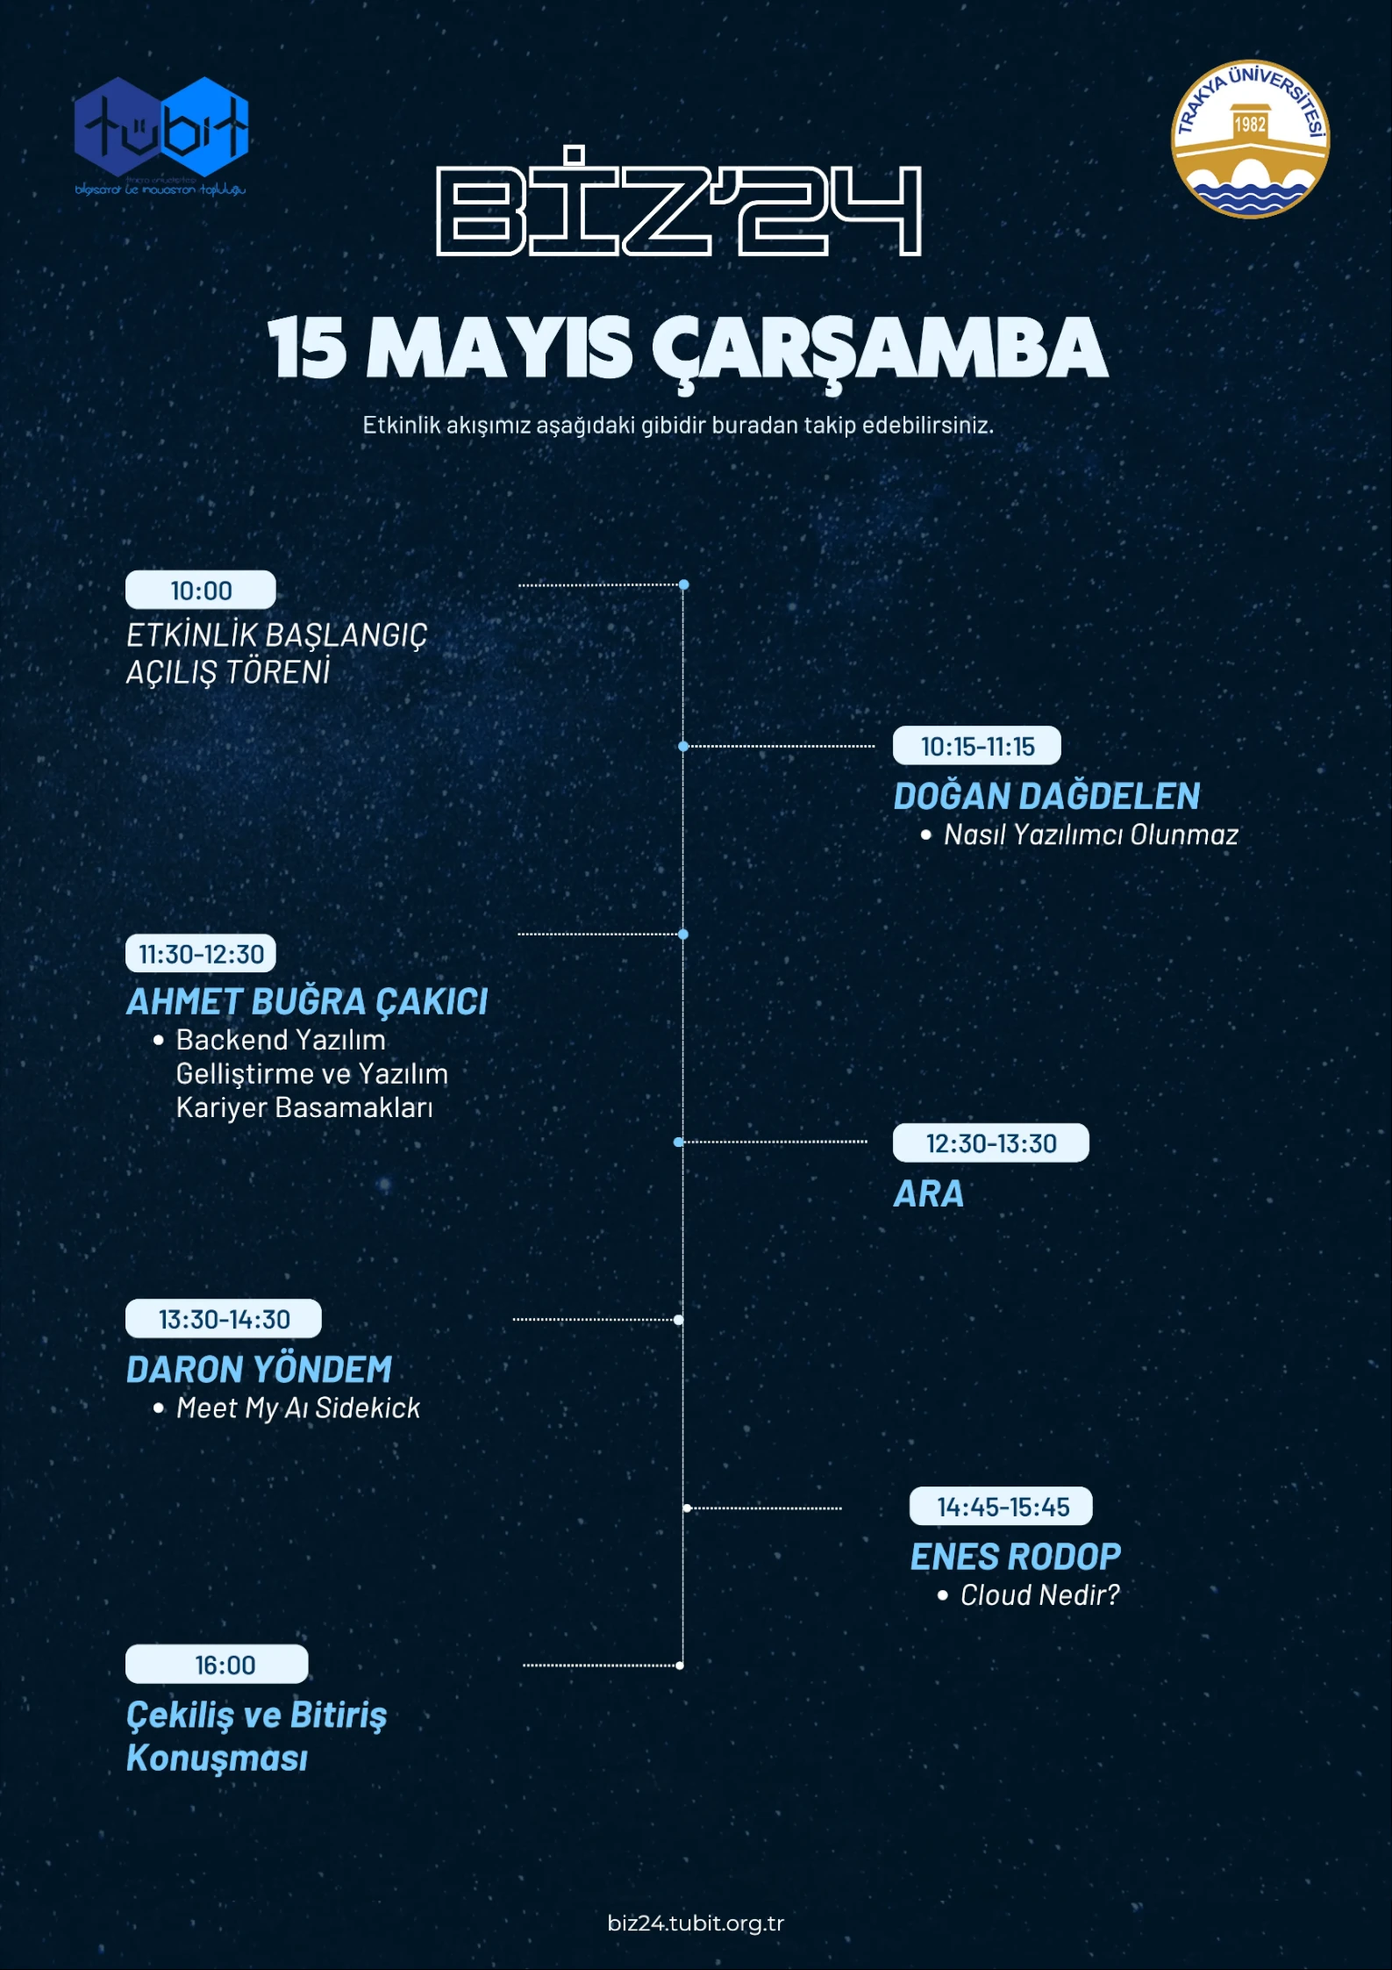
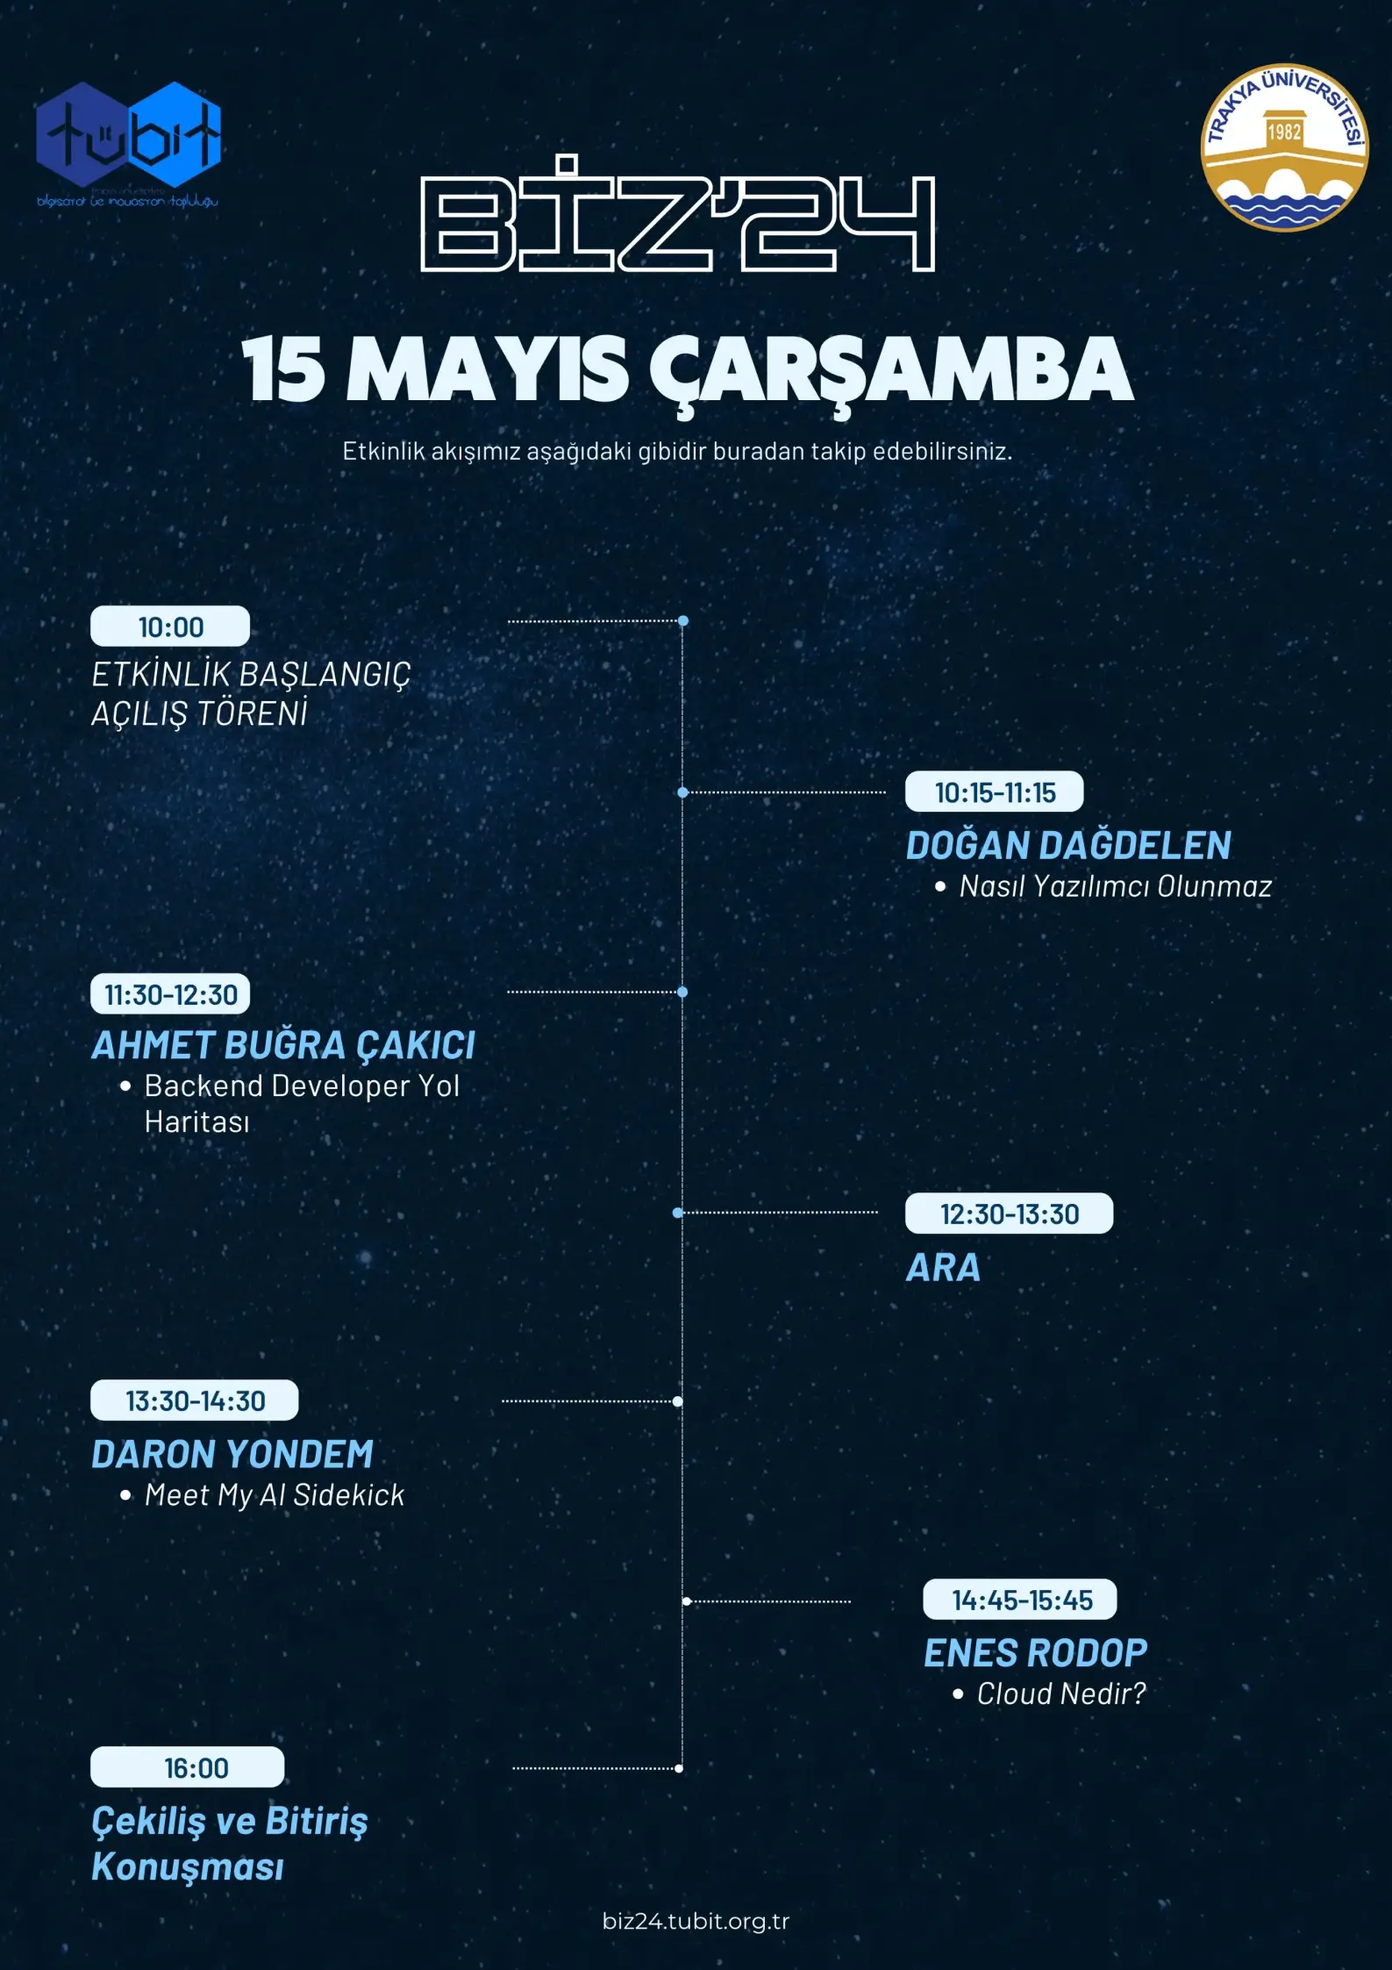
Update dynamic event status and the timelines

diff --git a/src/js/countdown.js b/src/js/countdown.js
@@ -1,7 +1,7 @@
 // events first day
 let countdownTime = new Date("2024-05-14T10:00:00").getTime();
 let currentTime = new Date().getTime();
-// let currentTime = new Date("2024-05-14T11:59:55").getTime();
+// let currentTime = new Date("2024-05-15T14:44:55").getTime();
 let timeRemaining = countdownTime - currentTime;
 // let currenTimeCounter = setInterval(() => {
 //     currentTime += 1000;
@@ -10,11 +10,12 @@ let timeRemaining = countdownTime - currentTime;
 if (timeRemaining > 0) {
     countdownTimer(countdownTime, "14.05.2024", "10.00", "Etkinliğe Kalan", false);
 } else {
+    showEventStatusContainer();
     updateEventStatus();
 }
 
 function countdownTimer(countdownTime, date, time, title, hideDay) {
-    document.getElementById("eventStatus").classList.add("hidden");
+    hideEventStatusContainer();
     let eventCountdownDate = document.getElementById("eventCountdownDate");
     let eventCountdownTitle = document.getElementById("eventCountdownTitle");
     let eventCountdownTimer = document.getElementById("eventCountdownTimer");
@@ -35,7 +36,6 @@ function countdownTimer(countdownTime, date, time, title, hideDay) {
     eventCountdownTitle.classList.remove("hidden");
     eventCountdownTimer.classList.remove("hidden");
     eventCountdownTimer.classList.add("flex");
-
     let x = setInterval(() => {
         let currentTime = new Date().getTime();
         let timeRemaining = countdownTime - currentTime;
@@ -45,6 +45,7 @@ function countdownTimer(countdownTime, date, time, title, hideDay) {
             document.getElementById("eventCountdownTitle").classList.add("hidden");
             document.getElementById("eventCountdownTimer").classList.add("hidden");
 
+            showEventStatusContainer();
             updateEventStatus();
         } else {
             let days = Math.floor(timeRemaining / (1000 * 60 * 60 * 24));
@@ -52,23 +53,21 @@ function countdownTimer(countdownTime, date, time, title, hideDay) {
             let minutes = Math.floor((timeRemaining % (1000 * 60 * 60)) / (1000 * 60));
             let seconds = Math.floor((timeRemaining % (1000 * 60)) / 1000);
 
-            document.getElementById("eventCountdownDay").innerHTML = days.toString().padStart(2,0);
-            document.getElementById("eventCountdownHour").innerHTML = hours.toString().padStart(2,0);
-            document.getElementById("eventCountdownMinute").innerHTML = minutes.toString().padStart(2,0);
-            document.getElementById("eventCountdownSecond").innerHTML = seconds.toString().padStart(2,0);
+            document.getElementById("eventCountdownDay").innerHTML = days.toString().padStart(2, 0);
+            document.getElementById("eventCountdownHour").innerHTML = hours.toString().padStart(2, 0);
+            document.getElementById("eventCountdownMinute").innerHTML = minutes.toString().padStart(2, 0);
+            document.getElementById("eventCountdownSecond").innerHTML = seconds.toString().padStart(2, 0);
         }
     }, 1000);
 }
 
 function updateEventStatus() {
-    document.getElementById("eventStatus").classList.remove("hidden");
     let dayOne = new Date("2024-05-14T10:00:00").getTime();
     let dayOneEnd = new Date("2024-05-14T16:40:00").getTime();
     let dayTwo = new Date("2024-05-15T10:00:00").getTime();
     let dayTwoEnd = new Date("2024-05-15T16:40:00").getTime();
     let dayThree = new Date("2024-05-16T10:00:00").getTime();
     let dayThreeEnd = new Date("2024-05-16T16:40:00").getTime();
-
     if (dayOne - currentTime < 0 && dayOneEnd - currentTime > 0) {
         // first day
         // console.log("day one");
@@ -78,8 +77,9 @@ function updateEventStatus() {
         let nextEventDate = document.getElementById("nextEventDate");
         let nextEventSpeaker = document.getElementById("nextEventSpeaker");
         let nextEvent = document.getElementById("nextEvent");
-
+        let nextEventContainer = document.getElementById("nextEventContainer");
         currentEventDay.innerText = "14.05.2024 - 1. Gün";
+
         // first event is the day start
         let eventOne = dayOne; // 10.00
         let eventOneEnd = eventOne + 3600000; // + 1 hour (3600000ms, 1h) 11.00
@@ -106,12 +106,12 @@ function updateEventStatus() {
 
         // using a truth table to prevent unnecessary updates
         let truthArray = [false, false, false, false, false, false, false, false];
-
         let eventUpdate = setInterval(() => {
             if (eventOne - currentTime < 0 && eventOneEnd - currentTime > 0 && !truthArray[0]) {
                 truthArray[0] = true;
                 currentEventSpeaker.innerText = "";
                 currentEvent.innerText = "BİZ2024 Açılış Töreni";
+                nextEventContainer.classList.remove("hidden");
                 nextEvent.innerText = "Girişimcilik ve Marka Yaratma";
                 nextEventSpeaker.innerText = "Orkun Kayra AKYÜZ";
                 nextEventDate.innerText = "11:00-12:00";
@@ -120,6 +120,7 @@ function updateEventStatus() {
                 truthArray[1] = true;
                 currentEventSpeaker.innerText = "Orkun Kayra AKYÜZ";
                 currentEvent.innerText = "Girişimcilik ve Marka Yaratma";
+                nextEventContainer.classList.remove("hidden");
                 nextEvent.innerText = "1 Saat 15 Dakika Ara";
                 nextEventSpeaker.innerText = "";
                 nextEventDate.innerText = "12:00-13:15";
@@ -128,6 +129,7 @@ function updateEventStatus() {
                 truthArray[2] = true;
                 currentEventSpeaker.innerText = "";
                 currentEvent.innerText = "1 Saat 15 Dakika Ara";
+                nextEventContainer.classList.remove("hidden");
                 nextEvent.innerText = "Gearing Up for a Career as a Student";
                 nextEventSpeaker.innerText = "Murat Mirgün ERCAN";
                 nextEventDate.innerText = "13:15-14:15";
@@ -136,6 +138,7 @@ function updateEventStatus() {
                 truthArray[3] = true;
                 currentEventSpeaker.innerText = "Murat Mirgün ERCAN";
                 currentEvent.innerText = "Gearing Up for a Career as a Student";
+                nextEventContainer.classList.remove("hidden");
                 nextEvent.innerText = "Kahoot Yarışması";
                 nextEventSpeaker.innerText = "";
                 nextEventDate.innerText = "14:30-15:00";
@@ -144,6 +147,7 @@ function updateEventStatus() {
                 truthArray[4] = true;
                 currentEventSpeaker.innerText = "";
                 currentEvent.innerText = "15 Dakika Ara";
+                nextEventContainer.classList.remove("hidden");
                 nextEvent.innerText = "Kahoot Yarışması";
                 nextEventSpeaker.innerText = "";
                 nextEventDate.innerText = "14:30-15:00";
@@ -152,6 +156,7 @@ function updateEventStatus() {
                 truthArray[5] = true;
                 currentEventSpeaker.innerText = "";
                 currentEvent.innerText = "Kahoot Yarışması";
+                nextEventContainer.classList.remove("hidden");
                 nextEvent.innerText = "Teknoloji Evrimi";
                 nextEventSpeaker.innerText = "Baki ÇUBUK";
                 nextEventDate.innerText = "15:15-16:15";
@@ -160,6 +165,7 @@ function updateEventStatus() {
                 truthArray[6] = true;
                 currentEventSpeaker.innerText = "";
                 currentEvent.innerText = "15 Dakika Ara";
+                nextEventContainer.classList.remove("hidden");
                 nextEvent.innerText = "Teknoloji Evrimi";
                 nextEventSpeaker.innerText = "Baki ÇUBUK";
                 nextEventDate.innerText = "15:15-16:15";
@@ -168,6 +174,7 @@ function updateEventStatus() {
                 truthArray[7] = true;
                 currentEventSpeaker.innerText = "Baki ÇUBUK";
                 currentEvent.innerText = "Teknoloji Evrimi";
+                nextEventContainer.classList.remove("hidden");
                 nextEvent.innerText = "1. Günün sonu";
                 nextEventSpeaker.innerText = "";
                 nextEventDate.innerText = "16:15";
@@ -178,12 +185,10 @@ function updateEventStatus() {
                 countdownTimer(dayTwo, "15.05.2024", "10.00", "2. Güne Kalan", true)
             }
         }, 1000);
-
     } else if (dayOneEnd - currentTime < 0 && dayTwo - currentTime > 0) {
         // time between end of the first day and start of the second day
         // console.log("day one ended, day two haven't started yet");
         countdownTimer(dayTwo, "15.05.2024", "10.00", "2. Güne Kalan", true)
-
     } else if (dayTwo - currentTime < 0 && dayTwoEnd - currentTime > 0) {
         // second day
         // console.log("day two");
@@ -193,8 +198,9 @@ function updateEventStatus() {
         let nextEventDate = document.getElementById("nextEventDate");
         let nextEventSpeaker = document.getElementById("nextEventSpeaker");
         let nextEvent = document.getElementById("nextEvent");
-
+        let nextEventContainer = document.getElementById("nextEventContainer");
         currentEventDay.innerText = "15.05.2024 - 2. Gün";
+
         // first event is the day start
         let eventOne = dayTwo; // 10.00
         let eventOneEnd = eventOne + 900000; // + .25 hour (900000ms, 15m) 10.15
@@ -225,13 +231,13 @@ function updateEventStatus() {
 
         // using a truth table to prevent unnecessary updates
         let truthArray = [false, false, false, false, false, false, false, false, false, false];
-
         let eventUpdate = setInterval(() => {
             if (eventOne - currentTime < 0 && eventOneEnd - currentTime > 0 && !truthArray[0]) {
                 // 10.00 - 10.15
                 truthArray[0] = true;
                 currentEventSpeaker.innerText = "";
                 currentEvent.innerText = "BİZ2024 Açılış Töreni";
+                nextEventContainer.classList.remove("hidden");
                 nextEvent.innerText = "Nasıl Yazılımcı Olunmaz";
                 nextEventSpeaker.innerText = "Doğan DAĞDELEN";
                 nextEventDate.innerText = "10:15-11:15";
@@ -241,7 +247,8 @@ function updateEventStatus() {
                 truthArray[1] = true;
                 currentEventSpeaker.innerText = "Doğan DAĞDELEN";
                 currentEvent.innerText = "Nasıl Yazılımcı Olunmaz";
-                nextEvent.innerText = "Backend Yazılım Geliştirme ve Yazılım Kariyer Basamakları";
+                nextEventContainer.classList.remove("hidden");
+                nextEvent.innerText = "Backend Developer Yol Haritası";
                 nextEventSpeaker.innerText = "Ahmet Buğra ÇAKICI";
                 nextEventDate.innerText = "11:30-12:30";
                 // console.log("e2");
@@ -250,7 +257,8 @@ function updateEventStatus() {
                 truthArray[2] = true;
                 currentEventSpeaker.innerText = "";
                 currentEvent.innerText = "15 Dakika Ara";
-                nextEvent.innerText = "Backend Yazılım Geliştirme ve Yazılım Kariyer Basamakları";
+                nextEventContainer.classList.remove("hidden");
+                nextEvent.innerText = "Backend Developer Yol Haritası";
                 nextEventSpeaker.innerText = "Ahmet Buğra ÇAKICI";
                 nextEventDate.innerText = "11:30-12:30";
                 // console.log("e3");
@@ -258,7 +266,8 @@ function updateEventStatus() {
                 // 11.30 - 12.30
                 truthArray[3] = true;
                 currentEventSpeaker.innerText = "Ahmet Buğra ÇAKICI";
-                currentEvent.innerText = "Backend Yazılım Geliştirme ve Yazılım Kariyer Basamakları";
+                currentEvent.innerText = "Backend Developer Yol Haritası";
+                nextEventContainer.classList.remove("hidden");
                 nextEvent.innerText = "1 Saat Ara";
                 nextEventSpeaker.innerText = "";
                 nextEventDate.innerText = "12:30-13:30";
@@ -268,15 +277,17 @@ function updateEventStatus() {
                 truthArray[4] = true;
                 currentEventSpeaker.innerText = "";
                 currentEvent.innerText = "1 Saat Ara";
+                nextEventContainer.classList.remove("hidden");
                 nextEvent.innerText = "Meet My AI Sidekick";
-                nextEventSpeaker.innerText = "Daron YÖNDEM";
+                nextEventSpeaker.innerText = "Daron YONDEM";
                 nextEventDate.innerText = "13:30-14:30";
                 // console.log("e5");
             } else if (eventFive - currentTime < 0 && eventFiveEnd - currentTime > 0 && !truthArray[5]) {
                 // 13.30 - 14.30
                 truthArray[5] = true;
-                currentEventSpeaker.innerText = "Daron YÖNDEM";
+                currentEventSpeaker.innerText = "Daron YONDEM";
                 currentEvent.innerText = "Meet My AI Sidekick";
+                nextEventContainer.classList.remove("hidden");
                 nextEvent.innerText = "Cloud Nedir?";
                 nextEventSpeaker.innerText = "Enes RODOP";
                 nextEventDate.innerText = "14:45-15:45";
@@ -286,6 +297,7 @@ function updateEventStatus() {
                 truthArray[6] = true;
                 currentEventSpeaker.innerText = "";
                 currentEvent.innerText = "15 Dakika Ara";
+                nextEventContainer.classList.remove("hidden");
                 nextEvent.innerText = "Cloud Nedir?";
                 nextEventSpeaker.innerText = "Enes RODOP";
                 nextEventDate.innerText = "14:45-15:45";
@@ -295,6 +307,7 @@ function updateEventStatus() {
                 truthArray[7] = true;
                 currentEventSpeaker.innerText = "Enes RODOP";
                 currentEvent.innerText = "Cloud Nedir?";
+                nextEventContainer.classList.remove("hidden");
                 nextEvent.innerText = "Çekiliş ve Bitiriş Konuşması";
                 nextEventSpeaker.innerText = "";
                 nextEventDate.innerText = "16:00";
@@ -304,6 +317,7 @@ function updateEventStatus() {
                 truthArray[8] = true;
                 currentEventSpeaker.innerText = "";
                 currentEvent.innerText = "15 Dakika Ara";
+                nextEventContainer.classList.remove("hidden");
                 nextEvent.innerText = "Çekiliş ve Bitiriş Konuşması";
                 nextEventSpeaker.innerText = "";
                 nextEventDate.innerText = "16:00";
@@ -313,6 +327,7 @@ function updateEventStatus() {
                 truthArray[9] = true;
                 currentEventSpeaker.innerText = "";
                 currentEvent.innerText = "Çekiliş ve Bitiriş Konuşması";
+                nextEventContainer.classList.remove("hidden");
                 nextEvent.innerText = "2. Günün Sonu";
                 nextEventSpeaker.innerText = "";
                 nextEventDate.innerText = "16:40";
@@ -323,16 +338,58 @@ function updateEventStatus() {
                 countdownTimer(dayThree, "16.05.2024", "10.00", "3. Güne Kalan", true)
             }
         }, 1000);
-
     } else if (dayTwoEnd - currentTime < 0 && dayThree - currentTime > 0) {
         // time between end of the second day and start of the third day
         // console.log("day two ended, day three haven't started yet");
         countdownTimer(dayThree, "16.05.2024", "10.00", "3. Güne Kalan", true)
-
     } else if (dayThree - currentTime < 0 && dayThreeEnd - currentTime > 0) {
-        // noop until timelines get fixed
+        // third day
+        // console.log("day three");
+        let currentEventDay = document.getElementById("currentEventDay");
+        let currentEventSpeaker = document.getElementById("currentEventSpeaker");
+        let currentEvent = document.getElementById("currentEvent");
+        let nextEventDate = document.getElementById("nextEventDate");
+        let nextEventSpeaker = document.getElementById("nextEventSpeaker");
+        let nextEvent = document.getElementById("nextEvent");
+        let nextEventContainer = document.getElementById("nextEventContainer");
+        currentEventDay.innerText = "16.05.2024 - 3. Gün";
+
+        // using a flag to prevent unnecessary updates
+        let updated = false;
+        let eventUpdate = setInterval(() => {
+            if (dayThree - currentTime < 0 && dayThreeEnd - currentTime > 0 && !updated) {
+                updated = true;
+                currentEventSpeaker.innerText = "";
+                currentEvent.innerText = "Etkinliğin 3. Günü başladı";
+                nextEventContainer.classList.add("hidden");
+                nextEvent.innerText = "";
+                nextEventSpeaker.innerText = "";
+                nextEventDate.innerText = "";
+                // console.log("e1");
+            } else if (dayThreeEnd - currentTime < 0) {
+                // last day
+                clearInterval(eventUpdate);
+                hideEventStatusContainer();
+                activateEventEndedContainer();
+            }
+        }, 1000);
     } else {
-        // noop
         // console.log("event ended");
+        hideEventStatusContainer();
+        activateEventEndedContainer();
     }
+}
+
+function showEventStatusContainer() {
+    document.getElementById("eventStatusContainer").classList.remove("hidden");
+}
+
+function hideEventStatusContainer() {
+    document.getElementById("eventStatusContainer").classList.add("hidden");
+}
+
+function activateEventEndedContainer() {
+    let eventEndedContainer = document.getElementById("eventEndedContainer");
+    eventEndedContainer.classList.remove("hidden");
+    eventEndedContainer.classList.add("flex");
 }
